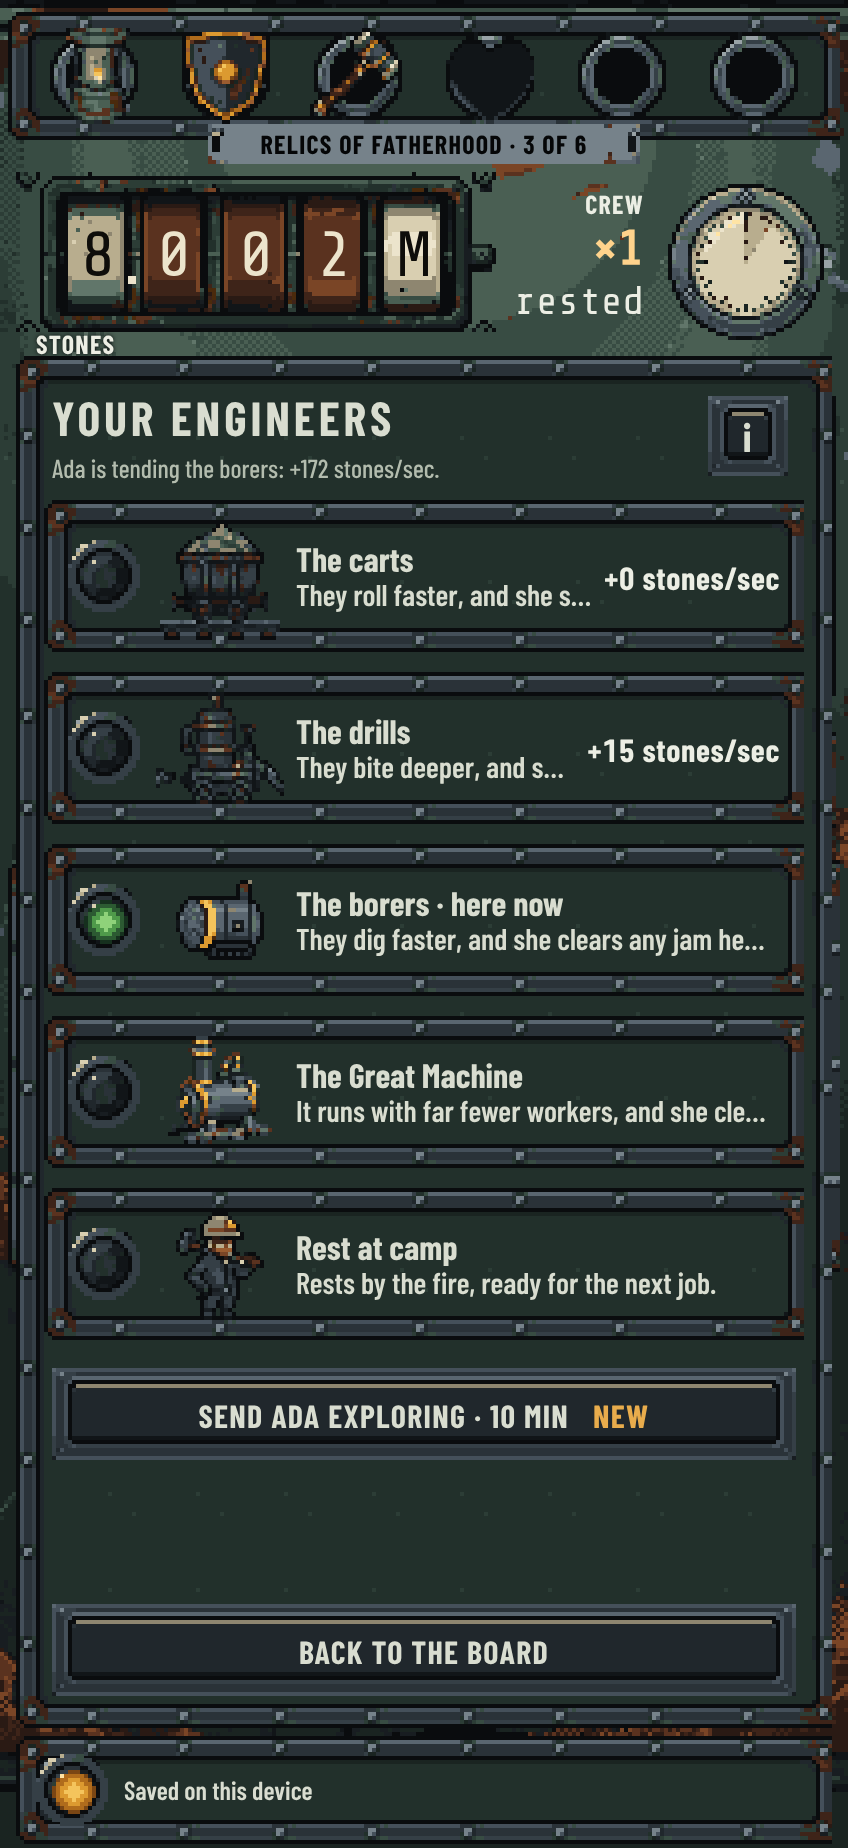
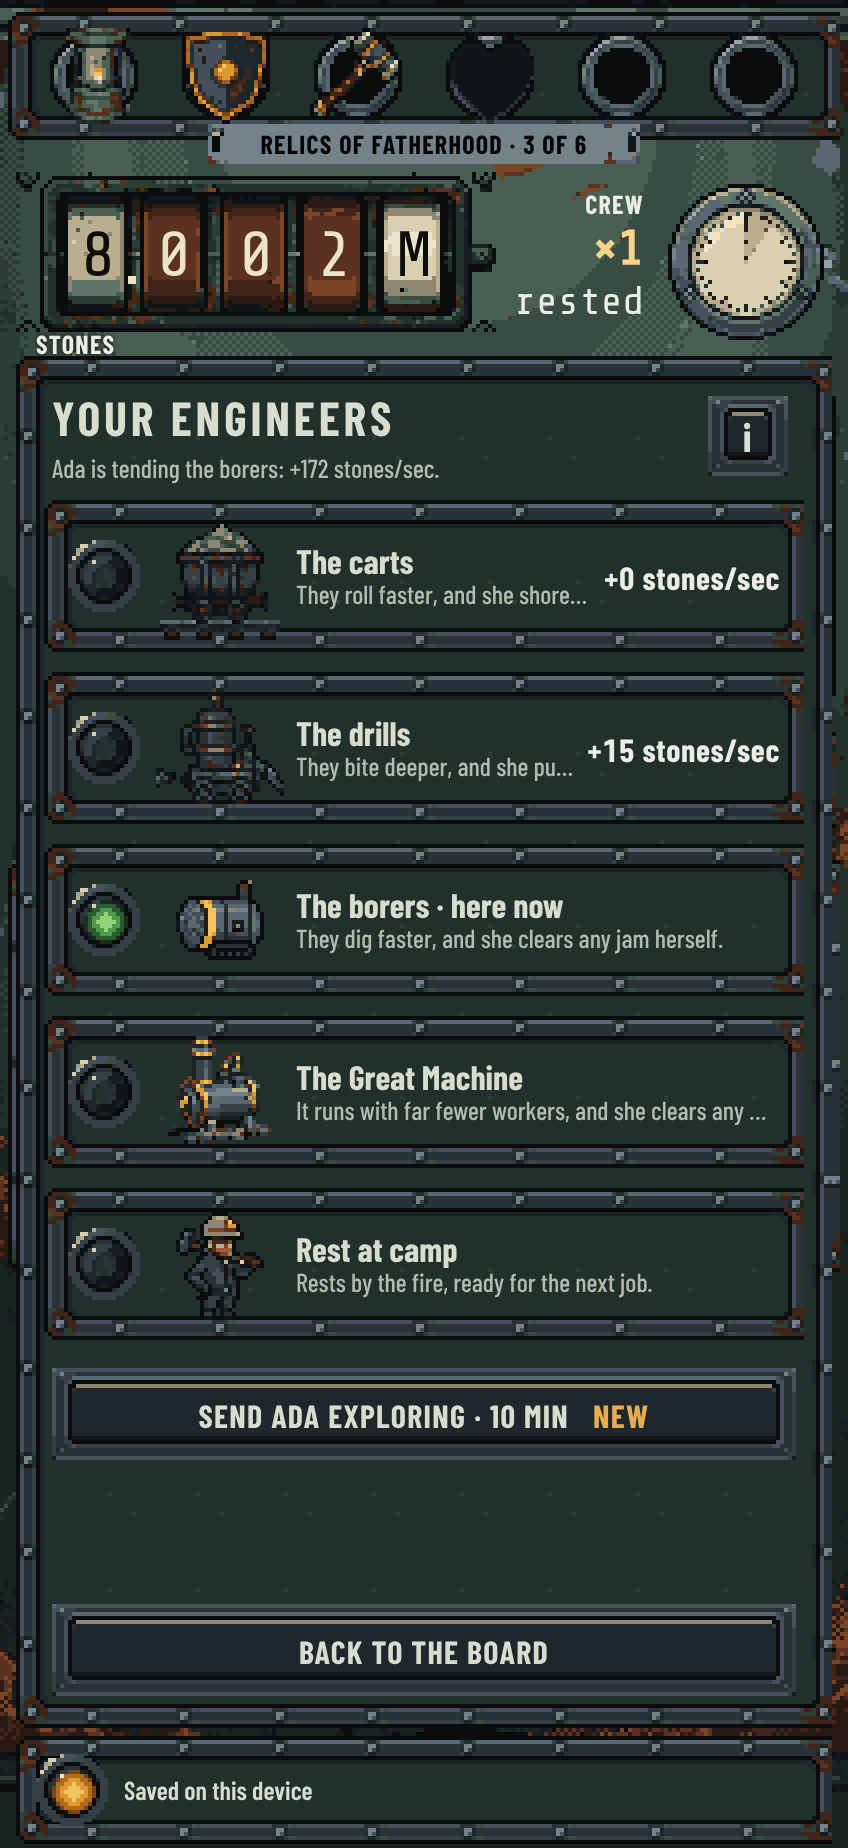
A troubled three-flap bay keeps its shout whole, and a post's sentence stays quiet (#505)
Review fixes: the Cave-in line was cut at 15px in a three-flap bay's 100px
column, so it keeps 13px there and the visual check covers it. An engineer's
post line is prose and stays the quiet 13px. A row's gain takes tabular
figures, and the style test's rule reader is one shared helper.

Claude-Session: https://claude.ai/code/session_011RgeWrWm14nFtAnch2WGAG

diff --git a/src/style.test.ts b/src/style.test.ts
@@ -113,6 +113,19 @@ function ruleHead(selector: string): string {
   return `^${selector.replace(/[.]/g, "\\.")} \\{`;
 }
 
+/** Every declaration of board.css's top-level rules that list this exact selector. */
+function declared(selector: string): string {
+  return [...boardCss.matchAll(/^([^{}@/\s][^{}@/]*?)\s*\{([^}]*)\}/gm)]
+    .filter((m) =>
+      (m[1] ?? "")
+        .split(",")
+        .map((one) => one.trim())
+        .includes(selector),
+    )
+    .map((m) => m[2] ?? "")
+    .join("\n");
+}
+
 /** The z-index a rule for exactly this selector sets in board.css. */
 function boardZ(selector: string): number {
   const rule = new RegExp(
@@ -345,35 +358,17 @@ describe("board.css", () => {
   });
 
   it("sits her page's plate words on the key face, and the guided first trip across the row (#455)", () => {
-    const rule = (selector: string): string => {
-      const escaped = selector.replace(/[.>]/g, "\\$&");
-      return (
-        new RegExp(`^${escaped} \\{([^}]*)\\}`, "m").exec(boardCss)?.[1] ?? ""
-      );
-    };
     // The key skin's 8 art px edge and 2 more: the inset engineer-parts#fitsPlate fits against.
-    expect(rule(".engineer-page-plates > .board-platebtn")).toMatch(
+    expect(declared(".engineer-page-plates > .board-platebtn")).toMatch(
       /padding:\s*0 calc\(var\(--art\) \* 10\)/,
     );
-    expect(rule(".engineer-page-plates > .board-platebtn.is-small")).toMatch(
-      /font-size:\s*var\(--board-type-14\)/,
-    );
-    expect(rule(".engineer-page-plates > .board-platebtn.teach-new")).toMatch(
-      /grid-column:\s*1 \/ -1/,
-    );
+    expect(
+      declared(".engineer-page-plates > .board-platebtn.is-small"),
+    ).toMatch(/font-size:\s*var\(--board-type-14\)/);
+    expect(
+      declared(".engineer-page-plates > .board-platebtn.teach-new"),
+    ).toMatch(/grid-column:\s*1 \/ -1/);
   });
-
-  /** Every declaration of the top-level rules that list this exact selector. */
-  const declared = (selector: string): string =>
-    [...boardCss.matchAll(/^([^{}@/\s][^{}@/]*?)\s*\{([^}]*)\}/gm)]
-      .filter((m) =>
-        (m[1] ?? "")
-          .split(",")
-          .map((one) => one.trim())
-          .includes(selector),
-      )
-      .map((m) => m[2] ?? "")
-      .join("\n");
 
   it.each([".board-bay-tag", ".board-row-tag"])(
     "prints %s's figure in bold 17px Barlow with tabular figures (#505)",
@@ -386,9 +381,21 @@ describe("board.css", () => {
     },
   );
 
-  it("keeps the plate's face on its figure, over the mono of .board-num (#505)", () => {
-    expect(declared(".board-bay-tag-text")).toMatch(/font-family:\s*inherit/);
+  it("keeps the plate's face on a row's price, over the mono of .board-num (#505)", () => {
     expect(declared(".board-row-price")).toMatch(/font-family:\s*inherit/);
+  });
+
+  it("keeps a three-flap bay's trouble shout at 13px, so it is never cut (#505)", () => {
+    expect(
+      declared(".board-bay.is-three[data-trouble] .board-bay-sub"),
+    ).toMatch(/font-size:\s*var\(--board-type-13\)/);
+  });
+
+  it("keeps a post's sentence on an engineer's page the quiet 13px line (#505)", () => {
+    const post = declared(".engineer-post .board-row-info");
+    expect(post).toMatch(/font-size:\s*var\(--board-type-13\)/);
+    expect(post).toMatch(/font-weight:\s*inherit/);
+    expect(post).toMatch(/color:\s*var\(--board-ink-2\)/);
   });
 
   it("sets the rate and effect lines at 15px, semi-bold, in the bright ink (#505)", () => {
@@ -424,6 +431,9 @@ describe("board.css", () => {
       /font-family:\s*"Barlow Condensed"/,
     );
     expect(declared(".board-row-gain")).toMatch(/font-weight:\s*700/);
+    expect(declared(".board-row-gain")).toMatch(
+      /font-variant-numeric:\s*tabular-nums/,
+    );
     expect(declared(".board-row-gain")).toMatch(
       /color:\s*var\(--board-ink-bare\)/,
     );

diff --git a/src/board.css b/src/board.css
@@ -1756,6 +1756,12 @@ body {
   color: var(--board-ink);
 }
 
+/* Three flaps leave the words 100px, and the trouble shout has no shorter
+   wording to fall back to: it keeps the old 13px there, so it is never cut. */
+.board-bay.is-three[data-trouble] .board-bay-sub {
+  font-size: var(--board-type-13);
+}
+
 /* The flap counter: flip-counter.png's left cap (columns 0-5), a window
    (6-15) per flap after the first, and the right cap with the last window
    (16-31). Its right edge stays at 154 art of the row. */
@@ -1862,10 +1868,8 @@ body {
   display: none;
 }
 
-/* A price is bold Barlow on its plate (#505), not the thin mono of .board-num. */
 .board-bay-tag-text {
   position: relative;
-  font-family: inherit;
 }
 
 /* ---------- drawer rows (#373) ---------- */
@@ -2028,6 +2032,15 @@ button.board-row:focus-visible {
   color: var(--board-rust);
 }
 
+/* A post on an engineer's page is a sentence about her, not a figure: it
+   stays the quiet 13px line. */
+.engineer-post .board-row-info {
+  font-size: var(--board-type-13);
+  line-height: var(--board-row-line-lead);
+  font-weight: inherit;
+  color: var(--board-ink-2);
+}
+
 .board-row-why {
   font-size: var(--board-type-13);
   line-height: var(--board-row-line-lead);
@@ -2055,6 +2068,7 @@ button.board-row:focus-visible {
   font-family: "Barlow Condensed", sans-serif;
   font-size: var(--board-type-16);
   font-weight: 700;
+  font-variant-numeric: tabular-nums;
   letter-spacing: 0.02em;
   line-height: var(--board-row-gain-lead);
   color: var(--board-ink-bare);

diff --git a/src/tokens.css b/src/tokens.css
@@ -97,19 +97,16 @@
 }
 
 /* The drawer rows (#373): a row's height, the name and gain sizes, and the
-   leads of the name, the small lines and the gain. */
+   leads of the name, the small lines, the 15px info and need lines (#505)
+   and the gain. */
 :root {
   --row-h: 76px;
   --board-type-15: 15px;
   --board-type-17: 17px;
   --board-row-name-lead: 19px;
   --board-row-line-lead: 15px;
-  --board-row-gain-lead: 17px;
-}
-
-/* Readable figures (#505): the lead of a drawer row's 15px info and need lines. */
-:root {
   --board-row-info-lead: 17px;
+  --board-row-gain-lead: 17px;
 }
 
 /* The key rail (#373): a locked key's label. */

diff --git a/docs/ART.md b/docs/ART.md
@@ -103,4 +103,4 @@ The board's art is PixelLab art approved with the control-board mockup in B1. It
 
 The Engineers drawer's post rows (#455) reuse the bays' and Buys' machine icons at 64: `mach-cart.png`, `mach-drill.png`, `mach-borer.png` and `mach-machine.png` for the four machines, and `mach-worker.png` for Rest at camp. The six board cards (#464) add no file. They reuse the board's art, all at exactly 2×: `frame.png` for each card's face; `inset.png` and `lamp.png` (off, or green on the side picked) for the save conflict's two sides; the new band's `mine-view-*.png` on the layer card, at 184×152; on craft done, the fitted thing's board icon (`mach-cart.png` for iron rails, `mach-drill.png` for diamond bits, `mach-machine.png` for the heartstone core and ember, `mach-worker.png` for the engineer's kit, at 64; `relic-lantern.png` for the crystal lamp and flare, at 48; `res-stone.png` for sturdy props, the blasting charge, reinforce and axle grease, at 32); and on the welcome card's material line, the first material's `res-<material>.png` at 32 (`workshop-parts.ts#MATERIAL_ART`). `key.png` skins their plates. Today's card art (`mountain.png` on the layer card, `ore-lump.png` and the old tier sprites) left the cards; the files stay for the mockups.
 
-The board's type is bundled, not loaded from Google: Barlow Condensed 500, 600 and 700 for words and Share Tech Mono 400 for the instruments' numbers (the odometer, flaps, gauge, dial and crew count), latin woff2 only, copied from the `@fontsource/barlow-condensed` and `@fontsource/share-tech-mono` packages (5.x) into `src/assets/fonts/`. Both are under the SIL Open Font License; the notices are `src/assets/fonts/OFL-barlow-condensed.txt` and `src/assets/fonts/OFL-share-tech-mono.txt`. `src/board.css` declares them with `font-display: block`. A figure on a plate (a price) is Barlow Condensed 700 at 17px with tabular figures and a drawer row's gain is the same face at 16px, and a rate or effect line is 15px semi-bold in the bright ink (#505): the thin mono only reads at 20px and up.
+The board's type is bundled, not loaded from Google: Barlow Condensed 500, 600 and 700 for words and Share Tech Mono 400 for the instruments' numbers (the odometer, flaps, gauge, dial and crew count), latin woff2 only, copied from the `@fontsource/barlow-condensed` and `@fontsource/share-tech-mono` packages (5.x) into `src/assets/fonts/`. Both are under the SIL Open Font License; the notices are `src/assets/fonts/OFL-barlow-condensed.txt` and `src/assets/fonts/OFL-share-tech-mono.txt`. `src/board.css` declares them with `font-display: block`. A figure on a plate (a price) is Barlow Condensed 700 at 17px with tabular figures and a drawer row's gain is the same face at 16px, and a rate or effect line is 15px semi-bold in the bright ink (#505): the thin mono only reads at 20px and up. The timers off a plate (Running now, the key rail, the Workshop's timers line) are still the mono. A post's sentence on an engineer's page stays the quiet 13px line, and so does the trouble shout on a three-flap bay, whose words have 100px.

diff --git a/docs/superpowers/plans/2026-11-12-readable-figures.md b/docs/superpowers/plans/2026-11-12-readable-figures.md
@@ -81,3 +81,6 @@ it("sets the rate and effect lines at 15px, semi-bold, in the bright ink (#505)"
 
 - A row's gain is 16px bold, not 17px: at 17px the Great Machine's name clipped by 4px in the fallback-font fit check (section 2, tier cards, `+134.4K/s`).
 - Ready now's second line stays 13px and turns bold in the plate's full ink. Its reason is worded to fit the 176px plate at 13px; at 15px every reason with a three-digit gain fell back to the gain alone.
+- After the review: a troubled three-flap bay keeps its shout at 13px (`Cave-in! · Hold to fix` has no shorter wording and was cut at 15px in the 100px column); the visual check now covers it.
+- After the review: a post's sentence on an engineer's page stays 13px and quiet. It is prose about her, not a figure, and at 15px it was cut sooner.
+- After the review: a row's gain takes tabular figures, and the no-op `font-family: inherit` on the bay's price text is gone.
